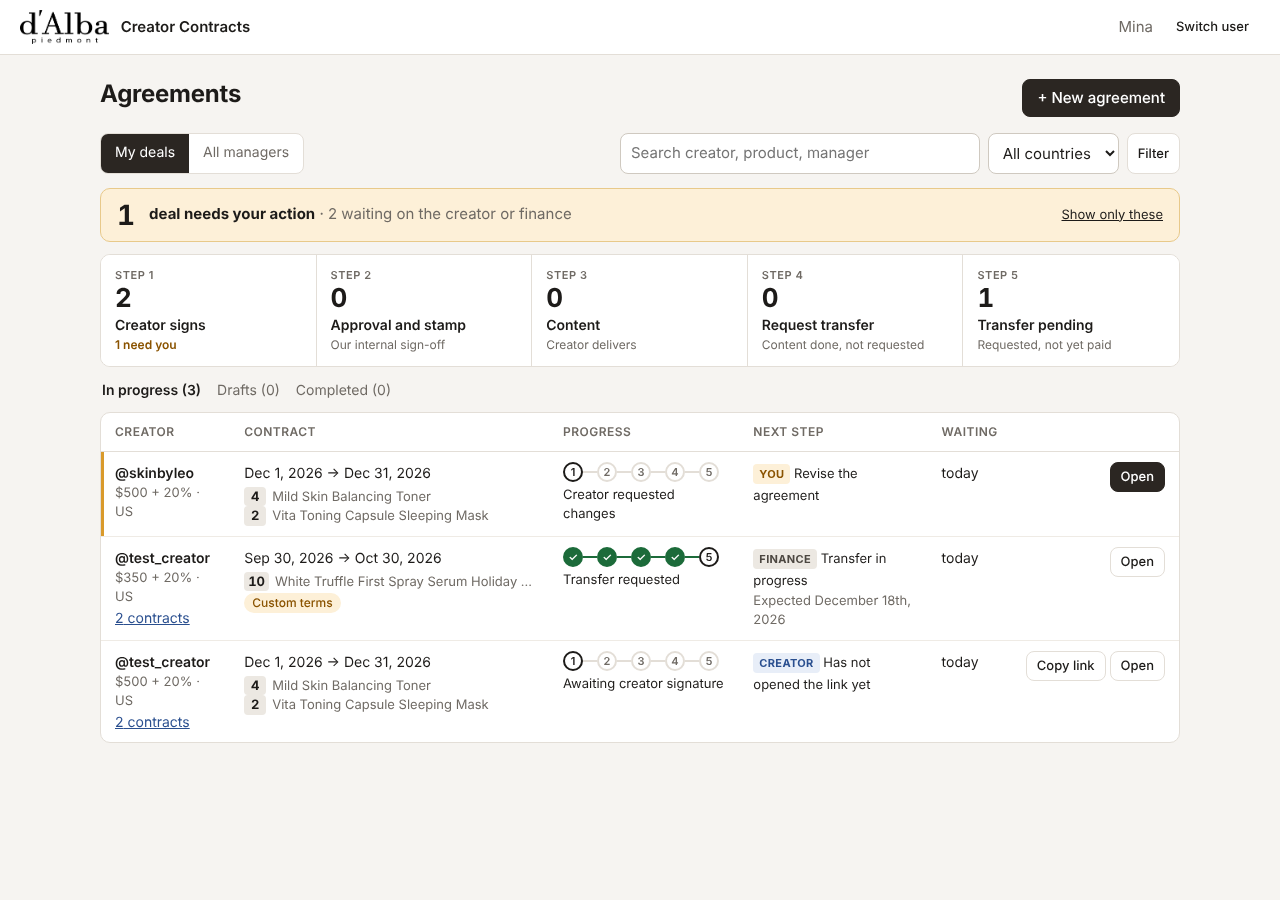
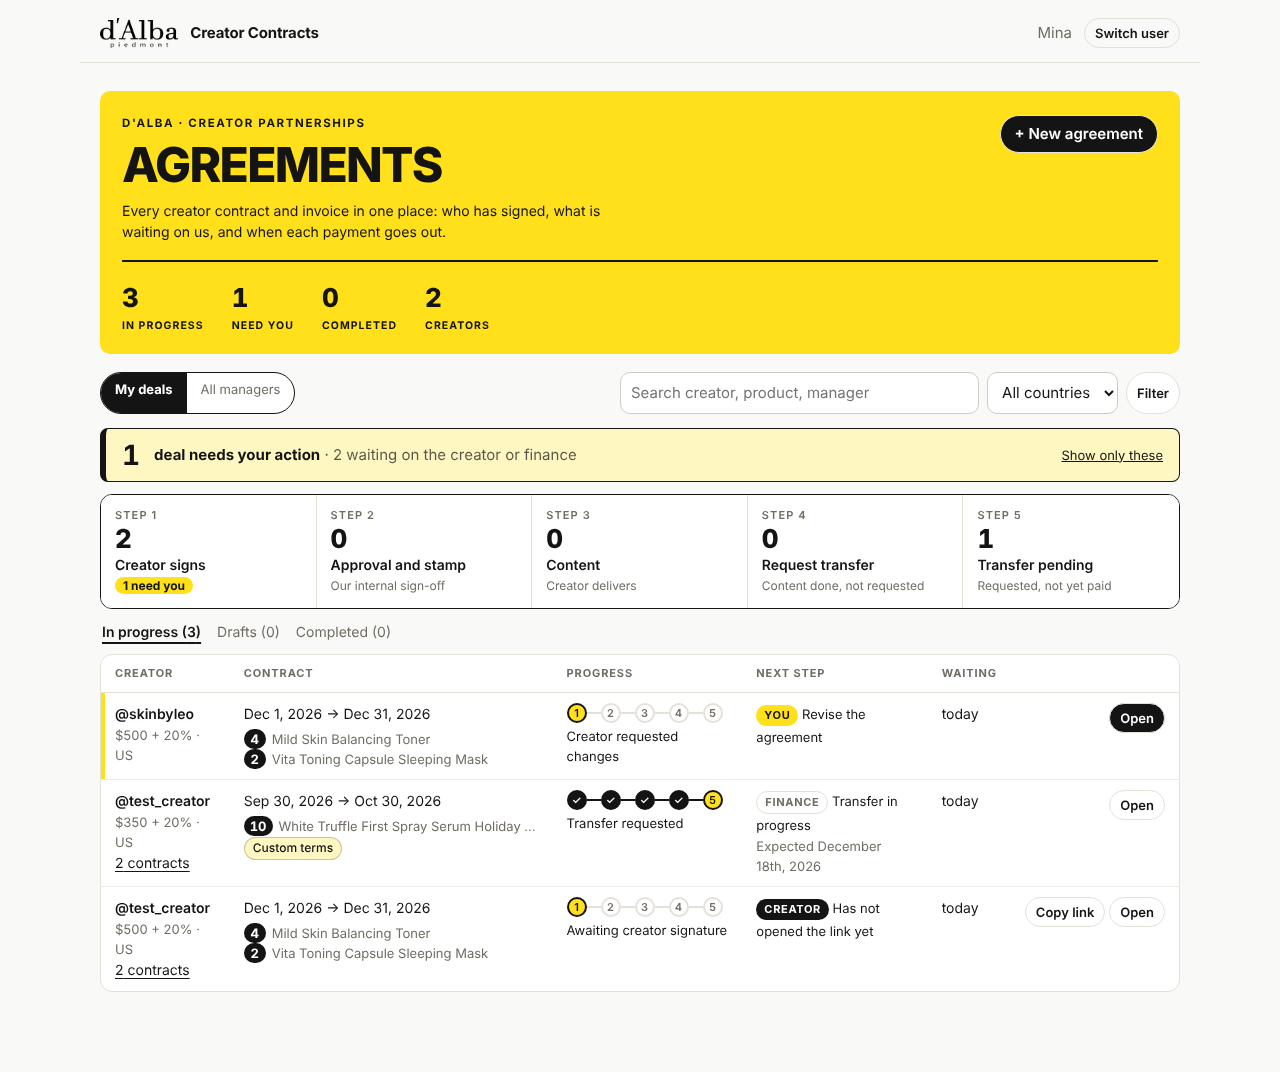
creator-contracts: adopt the d'Alba TikTok Shop Live look
Warm paper background, near-black ink and signal yellow, with the same
yellow masthead, pill controls and ink-bordered callouts.

Claude-Session: https://claude.ai/code/session_01XyDvtqEBKUqopMLnXtUDZg

diff --git a/creator-contracts/src/app/globals.css b/creator-contracts/src/app/globals.css
@@ -1,21 +1,24 @@
 :root {
-  --bg: #f6f4f1;
+  /* Shared with the d'Alba TikTok Shop Live site: warm paper, near-black ink, signal yellow. */
+  --bg: #f9f9f7;
   --surface: #ffffff;
-  --ink: #1d1b19;
-  --muted: #6f6a64;
-  --line: #e3ded7;
-  --accent: #2b2622;
+  --ink: #141414;
+  --muted: #6f6c62;
+  --line: #e3e1d8;
+  --yellow: #ffe01b;
+  --yellow-wash: #fff7c2;
+  --accent: #141414;
   --accent-ink: #ffffff;
-  --ok-bg: #e4f3e8;
-  --ok: #1c6b3a;
-  --wait-bg: #e8eef8;
-  --wait: #2a4f8f;
-  --warn-bg: #fdf0d8;
-  --warn: #8a5300;
-  --danger: #a3271f;
+  --ok-bg: #e6f4e6;
+  --ok: #0a7d0a;
+  --wait-bg: #efeee8;
+  --wait: #3d3b35;
+  --warn-bg: #fff7c2;
+  --warn: #141414;
+  --danger: #e02b20;
   --radius: 10px;
   --serif: "Times New Roman", Times, Georgia, serif;
-  --sans: -apple-system, BlinkMacSystemFont, "Segoe UI", Roboto, "Helvetica Neue", Arial, sans-serif;
+  --sans: system-ui, -apple-system, "Segoe UI", "Apple SD Gothic Neo", "Malgun Gothic", sans-serif;
 }
 
 * { box-sizing: border-box; }
@@ -266,3 +269,79 @@ input[type="file"] { border-style: dashed; padding: 7px; }
 .doc-item { padding-left: 16px; }
 .progress-card { display: flex; gap: 20px; align-items: center; flex-wrap: wrap; }
 .big { font-size: 32px; font-weight: 650; line-height: 1.1; font-variant-numeric: tabular-nums; }
+
+/* ---- Brand theme ---------------------------------------------------------- */
+body { -webkit-font-smoothing: antialiased; line-height: 1.55; }
+h1 { font-weight: 700; letter-spacing: -0.03em; }
+h2 { font-weight: 700; letter-spacing: -0.02em; }
+.topbar { background: transparent; max-width: 1120px; margin: 0 auto; padding: 18px 20px 14px; border-bottom: 1px solid var(--line); }
+.brand { font-size: 15px; font-weight: 700; letter-spacing: -0.01em; }
+.brand img { height: 30px; mix-blend-mode: multiply; }
+.card, .table-wrap, .bucket { border-color: var(--line); border-radius: 12px; }
+.btn { border-radius: 999px; font-weight: 600; border-color: var(--line); }
+.btn:hover { border-color: var(--ink); }
+.btn-primary:hover { background: #000; }
+.btn-ghost:hover { border-color: transparent; background: rgba(20, 20, 20, 0.05); }
+.btn-danger { color: var(--danger); }
+.linkish { color: var(--ink); text-underline-offset: 3px; }
+:focus-visible { outline-color: var(--ink); }
+input, select, textarea { border-color: #cfcdc3; border-radius: var(--radius); }
+.seg { border-radius: 999px; border-color: var(--ink); }
+.seg-item { font-size: 13px; padding: 6px 14px; }
+.seg-item.active { background: var(--ink); font-weight: 700; }
+.tab.active { border-bottom-color: var(--ink); }
+
+/* Yellow masthead */
+.hero { background: var(--yellow); color: var(--ink); border-radius: var(--radius); padding: 24px 22px 20px; margin: 4px 0 18px; }
+.hero-top { display: flex; justify-content: space-between; align-items: flex-start; gap: 16px; flex-wrap: wrap; }
+.kicker { margin: 0; font-size: 11.5px; font-weight: 700; letter-spacing: 0.14em; text-transform: uppercase; }
+.hero h1 { margin: 8px 0 0; font-size: clamp(30px, 6vw, 48px); font-weight: 800; letter-spacing: -0.035em; line-height: 1.02; text-transform: uppercase; overflow-wrap: anywhere; }
+.hero-sub { margin: 10px 0 0; max-width: 56ch; font-size: 14px; line-height: 1.5; }
+.hero-stats { display: flex; flex-wrap: wrap; gap: 10px 28px; margin: 18px 0 0; padding: 16px 0 0; border-top: 2px solid var(--ink); }
+.hero-stats div { display: flex; flex-direction: column-reverse; }
+.hero-stats dt { font-size: 10.5px; font-weight: 700; letter-spacing: 0.1em; text-transform: uppercase; }
+.hero-stats dd { margin: 0; font-size: 26px; font-weight: 800; letter-spacing: -0.03em; font-variant-numeric: tabular-nums; }
+.hero .btn-primary { flex: none; }
+
+/* What needs you */
+.todo-banner { background: var(--yellow-wash); border: 1px solid var(--ink); border-left-width: 6px; border-radius: 8px; color: var(--ink); }
+.todo-banner.clear { background: var(--surface); border-color: var(--line); border-left-color: var(--line); }
+.todo-banner.active { box-shadow: none; background: var(--yellow); }
+.todo-banner .muted { color: var(--ink); opacity: 0.7; }
+.pipeline { border-color: var(--ink); border-radius: 12px; }
+.pipeline .bucket { border-radius: 0; }
+.pipeline .bucket.active { background: var(--yellow-wash); box-shadow: inset 0 -4px 0 var(--ink); }
+.bucket-n { font-weight: 800; letter-spacing: -0.03em; }
+.bucket-step { letter-spacing: 0.1em; }
+.need { color: var(--ink); background: var(--yellow); border-radius: 999px; padding: 1px 8px; font-weight: 700; }
+.row-todo td:first-child { box-shadow: inset 4px 0 0 var(--yellow); }
+.who { border-radius: 999px; padding: 2px 8px; letter-spacing: 0.06em; }
+.who-you { background: var(--yellow); color: var(--ink); }
+.who-creator { background: var(--ink); color: #fff; }
+.who-finance { background: transparent; color: var(--muted); border: 1px solid var(--line); }
+.nextup { background: var(--surface); border: 1px solid var(--line); }
+.nextup-you { background: var(--yellow-wash); border: 1px solid var(--ink); border-left-width: 6px; color: var(--ink); }
+.alert-warn { background: var(--yellow-wash); border: 1px solid var(--ink); border-left-width: 6px; color: var(--ink); }
+.alert-info { background: var(--surface); border: 1px solid var(--line); color: var(--ink); }
+.badge-warn { background: var(--yellow-wash); color: var(--ink); border: 1px solid rgba(20, 20, 20, 0.22); }
+.pill-warn { background: var(--yellow); color: var(--ink); }
+.pill-wait, .pill-neutral { background: #efeee8; color: #3d3b35; }
+.late { color: var(--danger); }
+.subfilters a.active { text-decoration: underline; text-decoration-thickness: 2px; text-underline-offset: 5px; }
+.table th { letter-spacing: 0.08em; font-size: 11px; font-weight: 700; }
+.pcount { background: var(--ink); color: #fff; border-radius: 999px; padding: 0 6px; }
+
+/* Progress: ink when done, yellow where we are now */
+.stepper li.on .stepper-dot, .step.done .step-dot { background: var(--ink); border-color: var(--ink); color: #fff; }
+.stepper li.on + li::before { background: var(--ink); }
+.stepper li.cur .stepper-dot { background: var(--yellow); border-color: var(--ink); color: var(--ink); }
+.step.current .step-dot { background: var(--yellow); border-color: var(--ink); }
+.step-body { background: var(--bg); border-color: var(--line); border-radius: var(--radius); }
+
+/* Creator page */
+.creator .hero h1 { font-size: clamp(26px, 7vw, 40px); }
+.stepline span { background: var(--ink); }
+.notice.ok { background: var(--yellow); border-color: var(--yellow); }
+.notice.ok .btn-primary { background: var(--ink); }
+.login-card h1 { text-transform: uppercase; font-weight: 800; letter-spacing: -0.03em; }
+.login { background: var(--yellow); }

diff --git a/creator-contracts/src/app/(app)/page.tsx b/creator-contracts/src/app/(app)/page.tsx
@@ -66,12 +66,36 @@ export default async function Dashboard({ searchParams }: { searchParams: Promis
 
   return (
     <>
-      <div className="page-head">
-        <h1>Agreements</h1>
-        <Link href="/deals/new" className="btn btn-primary">
-          + New agreement
-        </Link>
-      </div>
+      <header className="hero">
+        <div className="hero-top">
+          <div>
+            <p className="kicker">d&apos;Alba · creator partnerships</p>
+            <h1>Agreements</h1>
+          </div>
+          <Link href="/deals/new" className="btn btn-primary">
+            + New agreement
+          </Link>
+        </div>
+        <p className="hero-sub">Every creator contract and invoice in one place: who has signed, what is waiting on us, and when each payment goes out.</p>
+        <dl className="hero-stats">
+          <div>
+            <dt>In progress</dt>
+            <dd>{active.length}</dd>
+          </div>
+          <div>
+            <dt>Need you</dt>
+            <dd>{todoCount}</dd>
+          </div>
+          <div>
+            <dt>Completed</dt>
+            <dd>{scoped.filter(isDone).length}</dd>
+          </div>
+          <div>
+            <dt>Creators</dt>
+            <dd>{new Set(scoped.map((d) => d.fields.handle.toLowerCase())).size}</dd>
+          </div>
+        </dl>
+      </header>
 
       <div className="toolbar">
         <div className="seg" role="group" aria-label="Scope">

diff --git a/creator-contracts/src/app/c/[token]/page.tsx b/creator-contracts/src/app/c/[token]/page.tsx
@@ -57,9 +57,10 @@ export default async function CreatorPage({ params }: { params: Promise<{ token:
 
   return (
     <Shell>
-      <header className="creator-head">
-        <h1>Agreement for @{deal.fields.handle}</h1>
-        <p>Review the agreement, add your payment details, and type your name to sign. It takes about three minutes. No download or printing needed.</p>
+      <header className="hero">
+        <p className="kicker">d&apos;Alba · creator agreement</p>
+        <h1>@{deal.fields.handle}</h1>
+        <p className="hero-sub">Review the agreement, add your payment details, and type your name to sign. It takes about three minutes. No download or printing needed.</p>
       </header>
       {deal.change_request && (
         <div className="alert alert-info">
